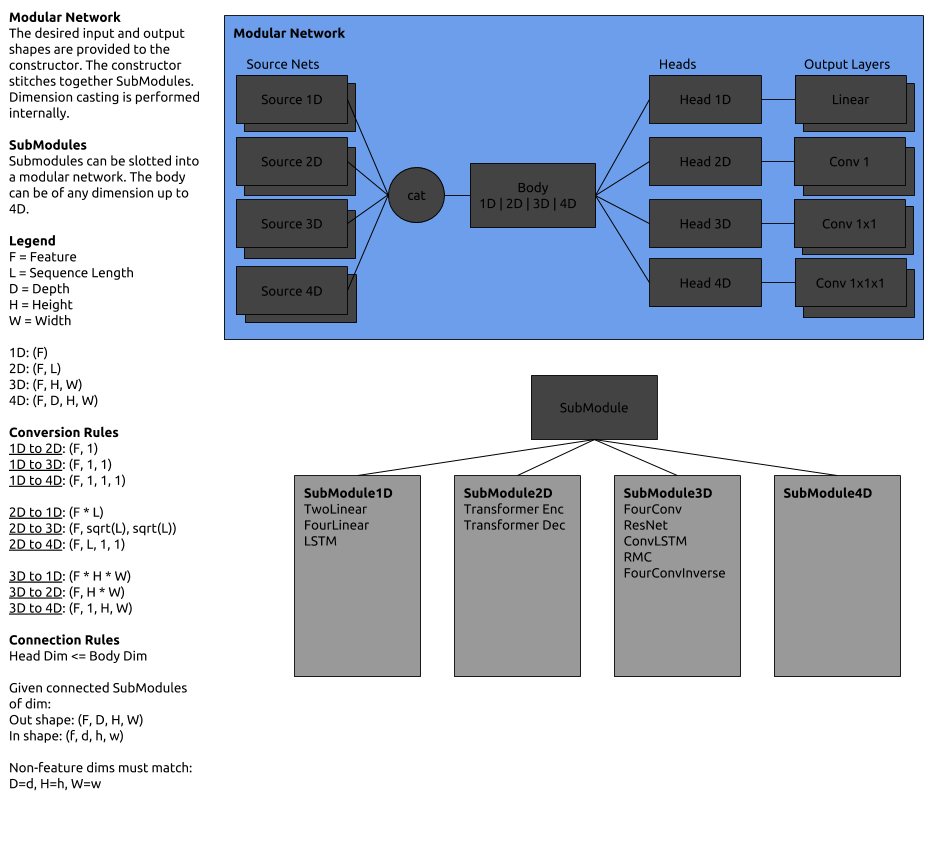
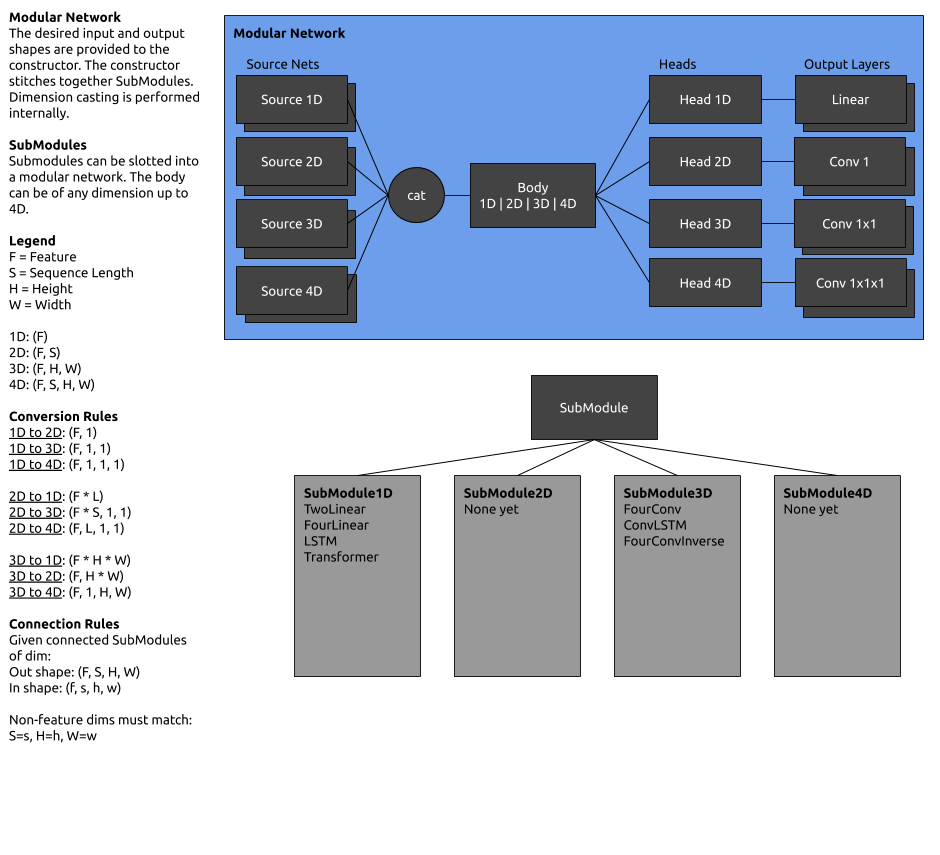
update documentation

diff --git a/README.md b/README.md
@@ -1,11 +1,11 @@
 ![banner](images/banner.png)
 
 adept is a reinforcement learning framework designed to accelerate research 
-by providing:
+by abstracting away engineering challenges associated with deep reinforcement
+learning. adept provides:
+* multi-GPU training
 * a modular interface for using custom networks, agents, and environments
 * baseline reinforcement learning models and algorithms for PyTorch
-* multi-GPU support
-* access to various environments
 * built-in tensorboard logging, model saving, reloading, evaluation, and 
 rendering
 * proven hyperparameter defaults
@@ -28,26 +28,15 @@ We're happy to accept feedback and contributions.
 
 ### Examples
 * Custom Network ([stub](examples/custom_network_stub.py) | example)
-* Custom SubModule ([stub](examples/custom_submodule_stub.py) | [example](adept/networks/net1d/lstm.py))
-* Custom Agent ([stub](examples/custom_agent_stub.py) | [example](adept/agents/actor_critic.py))
-* Custom Environment ([stub](examples/custom_environment_stub.py) | [example](adept/environments/openai_gym.py))
+* Custom SubModule ([stub](examples/custom_submodule_stub.py) | [example](adept/network/net1d/lstm.py))
+* Custom Agent ([stub](examples/custom_agent_stub.py) | [example](adept/agent/actor_critic.py))
+* Custom Environment ([stub](examples/custom_environment_stub.py) | [example](adept/env/openai_gym.py))
 
 ## Installation
-**Dependencies:**
-* gym
-* PyTorch 1.x
-* Python 3.5+
-* We recommend CUDA 10, pytorch 1.0, python 3.6
-
-**From source:**
-* Follow instructions for [PyTorch](https://pytorch.org/)
-* (Optional) Follow instructions for 
-[StarCraft 2](https://github.com/Blizzard/s2client-proto#downloads)
 ```bash
 git clone https://github.com/heronsystems/adeptRL
 cd adeptRL
-# Remove mpi, sc2, profiler if you don't plan on using these features:
-pip install .[mpi,sc2,profiler]
+pip install .
 ```
 
 **From docker:**
@@ -67,13 +56,9 @@ python -m adept.app local --env BeamRiderNoFrameskip-v4
 # We recommend 2+ GPUs, 8GB+ GPU memory, 32GB+ RAM, 4+ Cores
 python -m adept.app distrib --env BeamRiderNoFrameskip-v4
 
-# IMPALA (requires mpi4py and is resource intensive)
+# IMPALA (requires ray, resource intensive)
 # We recommend 2+ GPUs, 8GB+ GPU memory, 32GB+ RAM, 4+ Cores
 python -m adept.app impala --agent ActorCriticVtrace --env BeamRiderNoFrameskip-v4
-
-# StarCraft 2 (IMPALA not supported yet)
-# Warning: much more resource intensive than Atari
-python -m adept.app local --env CollectMineralShards
 
 # To see a full list of options:
 python -m adept.app -h
@@ -88,9 +73,9 @@ my_script.py
 Train an agent on a single GPU.
 """
 from adept.scripts.local import parse_args, main
-from adept.networks import NetworkModule, NetworkRegistry, SubModule1D
-from adept.agents import AgentModule, AgentRegistry
-from adept.environments import EnvModule, EnvRegistry
+from adept.network import NetworkModule, SubModule1D
+from adept.agent import AgentModule
+from adept.env import EnvModule
 
 
 class MyAgent(AgentModule):
@@ -110,22 +95,12 @@ class MySubModule1D(SubModule1D):
 
 
 if __name__ == '__main__':
-    agent_registry = AgentRegistry()
-    agent_registry.register_agent(MyAgent)
-    
-    env_registry = EnvRegistry()
-    env_registry.register_env(MyEnv, ['env-id-1', 'env-id-2'])
-    
-    network_registry = NetworkRegistry()
-    network_registry.register_custom_net(MyNet)
-    network_registry.register_submodule(MySubModule1D)
-    
-    main(
-        parse_args(),
-        agent_registry=agent_registry,
-        env_registry=env_registry,
-        net_registry=network_registry
-    )
+    import adept
+    adept.register_agent(MyAgent)
+    adept.register_env(MyEnv)
+    adept.register_network(MyNet)
+    adept.register_submodule(MySubModule1D)
+    main(parse_args())
 ```
 * Call your script like this: `python my_script.py --agent MyAgent --env 
 env-id-1 --custom-network MyNet`
@@ -164,8 +139,8 @@ million frames in less than one hour."
 * Batch normalization ([paper](https://arxiv.org/pdf/1502.03167.pdf))
 
 ### Environments
-* OpenAI Gym
-* StarCraft 2 (unstable)
+* OpenAI Gym Atari
+* StarCraft 2 (under development)
 
 ## Performance
 * ~ 3,000 Steps/second = 12,000 FPS (Atari)
